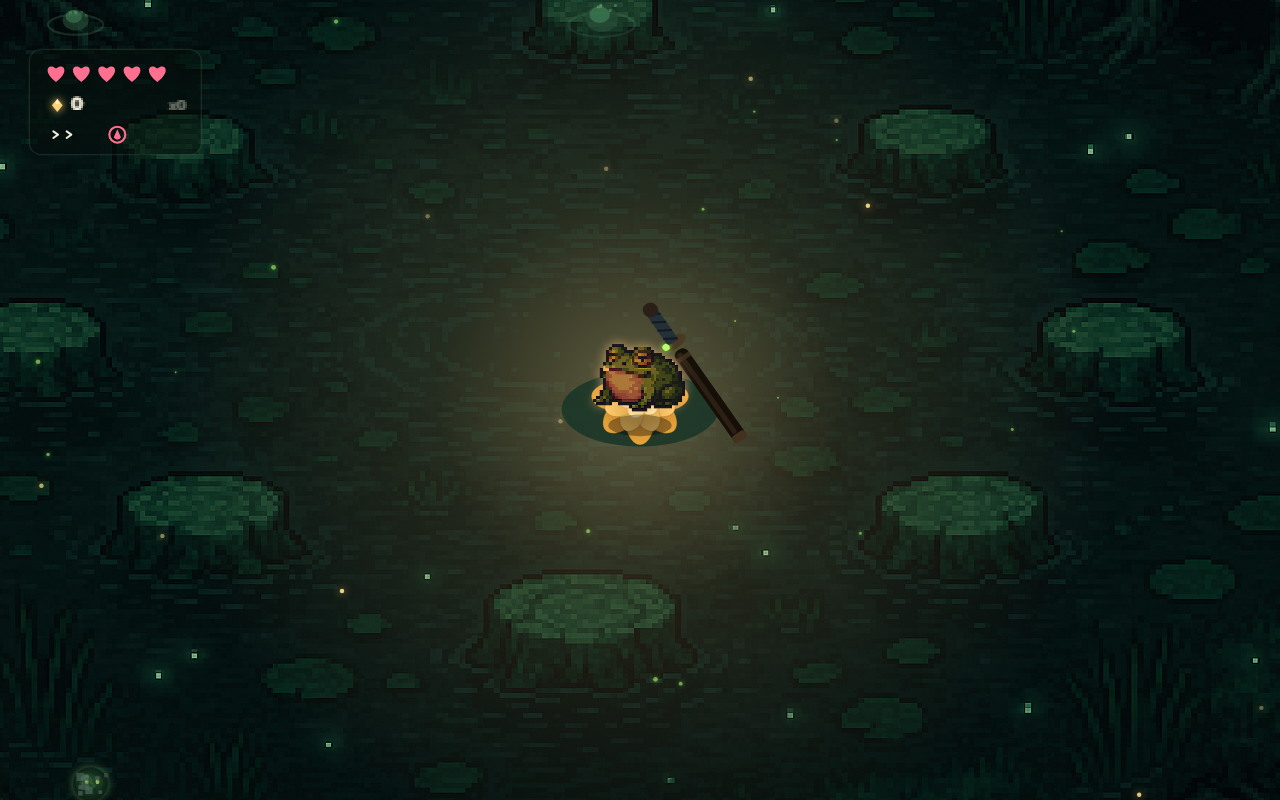
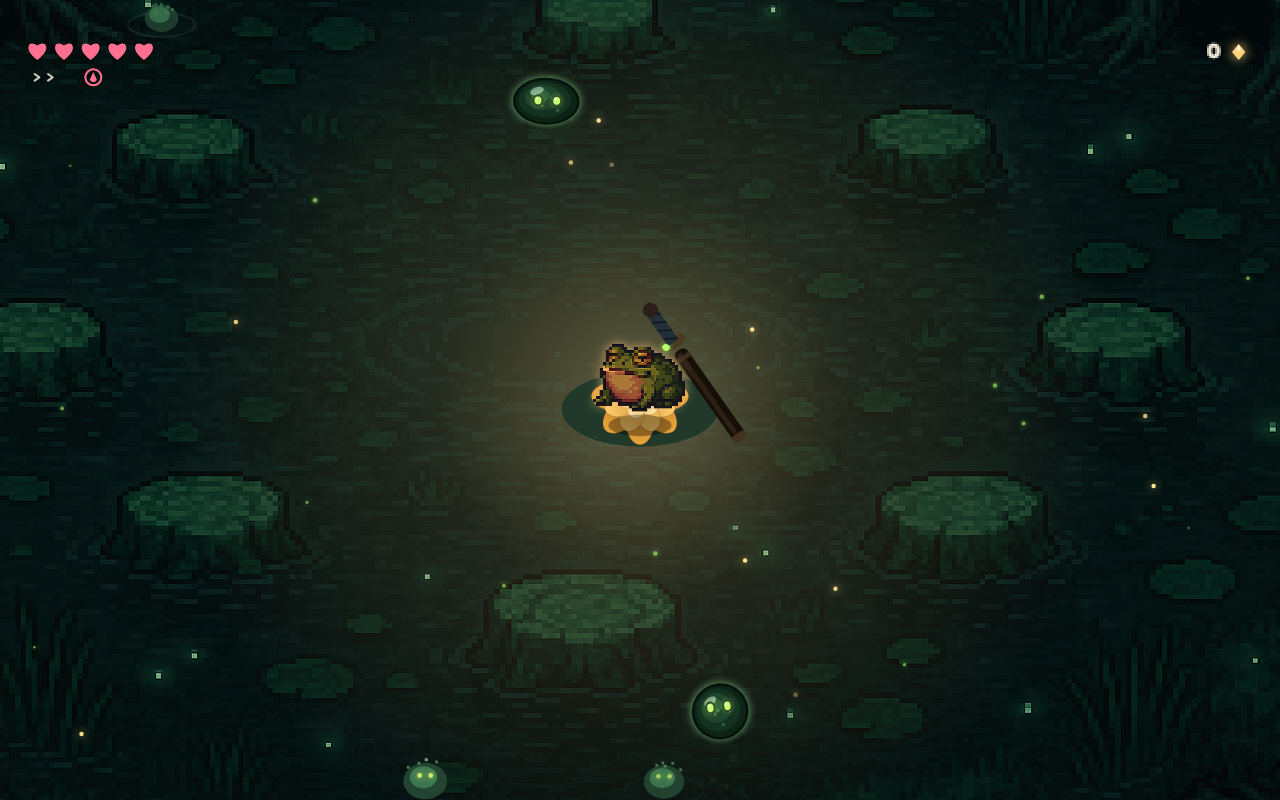
R4: minimal floating HUD (REF_02 language) — kill the debug panel
Hearts float top-left w/ soft shadow, essence gold-gem top-right, dash+tongue pips tucked
under the hearts. Removes the boxy backing panel + kill tally that every critic read as
placeholder/debug.

diff --git a/src/render/render.ts b/src/render/render.ts
@@ -948,54 +948,50 @@ function drawHud(ctx: CanvasRenderingContext2D, w: World, cw: number, ch: number
   ctx.translate(ox, oy);
   ctx.scale(scale, scale);
 
-  // --- framed, aligned HUD cluster (critics R2: top-left read as debug/placeholder) ---
-  const X = 84;                                       // left margin for the stack
-  // soft unifying backing panel so it reads as designed UI, not floating debug
-  ctx.fillStyle = 'rgba(6,14,10,0.5)';
-  roundRect(ctx, X - 40, 74, 258, 158, 18); ctx.fill();
-  ctx.strokeStyle = 'rgba(150,200,150,0.14)'; ctx.lineWidth = 2;
-  roundRect(ctx, X - 40, 74, 258, 158, 18); ctx.stroke();
+  // --- minimal FLOATING HUD, REF_02 language: hearts top-left, essence top-right, ability pips
+  // tucked under the hearts. No panel box, no kill tally, no debug chrome (critics: "placeholder").
+  const X = 56;                                       // left margin for the hearts + pips
 
-  // hearts row (coral — the bible accent), 20 HP each, aligned
+  // hearts row (coral — the bible accent), 20 HP each. A soft dark under-shadow per heart keeps
+  // them legible over bright water without a boxy panel.
   const hearts = Math.ceil(f.maxHp / 20);
   for (let i = 0; i < hearts; i++) {
-    const hx = X + i * 38, hy = 108;
+    const hx = X + i * 40, hy = 74;
     const fill = Math.max(0, Math.min(1, (f.hp - i * 20) / 20));
-    drawHeart(ctx, hx, hy, 15, 'rgba(18,14,18,0.8)');
+    drawHeart(ctx, hx, hy + 2, 16, 'rgba(4,10,8,0.55)');   // drop shadow
+    drawHeart(ctx, hx, hy, 16, 'rgba(30,18,24,0.85)');     // empty socket
     if (fill > 0) {
       ctx.save();
       ctx.beginPath();
-      ctx.rect(hx - 17, hy - 15 + (1 - fill) * 32, 34, fill * 32);
+      ctx.rect(hx - 18, hy - 16 + (1 - fill) * 34, 36, fill * 34);
       ctx.clip();
-      drawHeart(ctx, hx, hy, 15, '#ff6f8f');
+      drawHeart(ctx, hx, hy, 16, '#ff6f8f');
       ctx.restore();
     }
   }
 
-  // essence row: a faceted gold gem + count
-  const gx = X + 2, gy = 158;
+  // essence — TOP-RIGHT (REF_02): a glowing gold gem + count, right-anchored.
+  const ex = ARENA_W - 62, ey = 78;
+  drawPixelText(ctx, String(f.essence), ex - 24, ey, 30, C.cream, 'right');
   ctx.save();
-  ctx.shadowColor = C.gold; ctx.shadowBlur = 9;
+  ctx.shadowColor = C.gold; ctx.shadowBlur = 12;
   ctx.fillStyle = C.gold;
-  ctx.beginPath(); ctx.moveTo(gx, gy - 10); ctx.lineTo(gx + 8, gy); ctx.lineTo(gx, gy + 10); ctx.lineTo(gx - 8, gy); ctx.closePath(); ctx.fill();
+  ctx.beginPath(); ctx.moveTo(ex, ey - 12); ctx.lineTo(ex + 10, ey); ctx.lineTo(ex, ey + 12); ctx.lineTo(ex - 10, ey); ctx.closePath(); ctx.fill();
   ctx.shadowBlur = 0;
-  ctx.fillStyle = 'rgba(255,247,220,0.85)';           // gem highlight facet
-  ctx.beginPath(); ctx.moveTo(gx, gy - 10); ctx.lineTo(gx + 3, gy - 2); ctx.lineTo(gx - 3, gy - 2); ctx.closePath(); ctx.fill();
+  ctx.fillStyle = 'rgba(255,247,220,0.9)';
+  ctx.beginPath(); ctx.moveTo(ex, ey - 12); ctx.lineTo(ex + 4, ey - 2); ctx.lineTo(ex - 4, ey - 2); ctx.closePath(); ctx.fill();
   ctx.restore();
-  drawPixelText(ctx, String(f.essence), X + 20, gy, 28, C.cream, 'left');
-  // kill tally, right-aligned in the panel (small, dim)
-  drawPixelText(ctx, `x${w.kills}`, X + 200, gy, 20, 'rgba(242,234,216,0.42)', 'right');
 
-  // ability row: dash chevrons + tongue drop w/ cooldown
-  const ay = 202;
+  // ability pips: dash chevrons + tongue drop w/ cooldown, tucked just under the hearts
+  const ay = 116;
   for (let i = 0; i < DASH_CHARGES; i++) {
     const px = X + i * 20;
-    ctx.strokeStyle = i < f.dashCharges ? C.cream : 'rgba(242,234,216,0.2)';
+    ctx.strokeStyle = i < f.dashCharges ? 'rgba(242,234,216,0.85)' : 'rgba(242,234,216,0.22)';
     ctx.lineWidth = 3; ctx.lineCap = 'round'; ctx.lineJoin = 'round';
     ctx.beginPath(); ctx.moveTo(px - 4, ay - 5); ctx.lineTo(px + 3, ay); ctx.lineTo(px - 4, ay + 5); ctx.stroke();  // ">" dash chevron
   }
   // tongue drop icon + radial cooldown
-  const tx = X + 92, cd = Math.max(0, f.tCd) / TONGUE.cooldown;
+  const tx = X + 84, cd = Math.max(0, f.tCd) / TONGUE.cooldown;
   const tCol = cd < 1 ? '#ff6f8f' : 'rgba(255,111,143,0.35)';
   ctx.fillStyle = tCol;
   ctx.beginPath(); ctx.arc(tx, ay + 1, 6, 0.15 * Math.PI, 0.85 * Math.PI, false); ctx.lineTo(tx, ay - 8); ctx.closePath(); ctx.fill();  // teardrop
